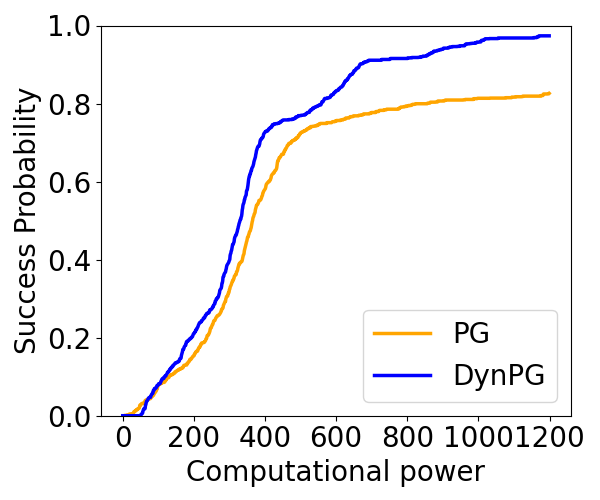
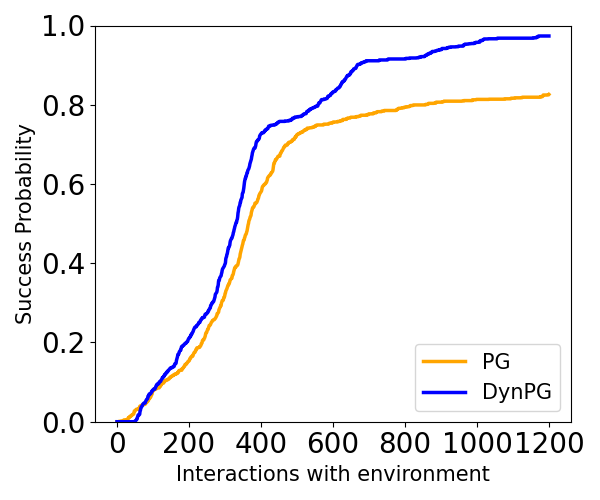
rename computational_power

diff --git a/run_algo.py b/run_algo.py
@@ -36,7 +36,7 @@ def _run_algos():
         combinations = list(itertools.product(
             config.algorithm, config.env_name, config.action_list, config.reward_list,config.discount_factor,  
             config.eps, config.pg_lr, config.dpg_lr, config.adaptive, config.dpg_Ns,
-            config.computational_power, config.gradient_clipping, config.reward_normalization, 
+            config.cmax_interactions, config.gradient_clipping, config.reward_normalization, 
             config.copy_weights, config.rounds
         ))
         
@@ -44,13 +44,13 @@ def _run_algos():
             _run_algo(*params)
 
     
-    plot_success_probs(config.computational_power[0], config.discount_factor, 
+    plot_success_probs(config.max_interactions[0], config.discount_factor, 
                         config.rounds[0], config.pg_lr, config.dpg_lr,config.adaptive,
                         config.env_name[0], config.eps[0], config.reward_list, config.dpg_Ns[0])
             
 
 def _run_algo(algorithm, env_name, action_list, reward_list, discount_factor, 
-              eps, pg_lr, dpg_lr, adaptive, dpg_Ns, computational_power,
+              eps, pg_lr, dpg_lr, adaptive, dpg_Ns, max_interactions,
               gradient_clipping, reward_normalization, copy_weights,
               rounds):
     # one can speficify seeds for reproducibility; 
@@ -81,7 +81,7 @@ def _run_algo(algorithm, env_name, action_list, reward_list, discount_factor,
                 discount_factor,
                 gradient_clipping,
                 reward_normalization,
-                computational_power,
+                max_interactions,
                 adaptive
                 )
             case "dpg":
@@ -94,7 +94,7 @@ def _run_algo(algorithm, env_name, action_list, reward_list, discount_factor,
                 gradient_clipping,
                 reward_normalization,
                 copy_weights,
-                computational_power,
+                max_interactions,
                 )
             case _:
                 raise ValueError(f"Algorithm {alg} not found")

diff --git a/dynamic_policy_gradient/utils/plot_results.py b/dynamic_policy_gradient/utils/plot_results.py
@@ -5,7 +5,7 @@ import pickle
 
 
 
-def plot_success_probs(computational_power,discount_factor, rounds,pg_lr, dpg_lr, adaptive,env_name,eps, reward_list,Ns):
+def plot_success_probs(max_interactions,discount_factor, rounds,pg_lr, dpg_lr, adaptive,env_name,eps, reward_list,Ns):
     discount_factor = discount_factor[0]
     plt.figure(figsize=(6, 5))
     total_samples_pg = []
@@ -25,21 +25,21 @@ def plot_success_probs(computational_power,discount_factor, rounds,pg_lr, dpg_lr
     
     probs_pg = []
     probs_dpg = []
-    for compute in range(computational_power):
+    for compute in range(max_interactions):
         probs_pg.append(np.sum([1 for i in total_samples_pg if i < compute]) / rounds)
         probs_dpg.append(np.sum([1 for i in total_samples_dpg if i < compute]) / rounds)
 
 
     # Plot 
     plt.plot(
-        range(computational_power),
+        range(max_interactions),
         probs_pg,
         label="PG",
         color="orange",
         linewidth=2.5,
     )
     plt.plot(
-        range(computational_power),
+        range(max_interactions),
         probs_dpg,
         label="DynPG",
         color="blue",
@@ -47,9 +47,9 @@ def plot_success_probs(computational_power,discount_factor, rounds,pg_lr, dpg_lr
     )
 
     # enlarge ticksize and label size
-    plt.xlabel("Computational power", fontsize=20)
-    plt.ylabel("Success Probability", fontsize=20)
-    plt.legend(loc="lower right", fontsize=20)
+    plt.xlabel("Interactions with environment", fontsize=15)
+    plt.ylabel("Success Probability", fontsize=15)
+    plt.legend(loc="lower right", fontsize=15)
 
     # set ticksize
     plt.xticks(fontsize=20)

diff --git a/dynamic_policy_gradient/algs/softmax_dpg.py b/dynamic_policy_gradient/algs/softmax_dpg.py
@@ -52,7 +52,7 @@ class DynamicSoftmaxPG:
         gradient_clipping,
         reward_normalization,
         copy_weights,
-        computational_power,
+        max_interactions,
     ):
         torch.manual_seed(self.seed)
 
@@ -69,7 +69,7 @@ class DynamicSoftmaxPG:
         V_gap = float("inf")
 
         # Outer training loop over horizons in DynPG 
-        while V_gap > eps and total_samples<computational_power:
+        while V_gap > eps and total_samples<max_interactions:
             if adaptive: 
                 lr_h = 2*(1-self.env.discount_factor) / (1-(self.env.discount_factor**(h+1)))
                 N_h = math.ceil(45* (1-(self.env.discount_factor**(h+1))) / (1-self.env.discount_factor)) # number of episodes for the current horizon
@@ -129,7 +129,7 @@ class DynamicSoftmaxPG:
                 episode_actual_Vs.append(actual_V)
                 sample_path.append(total_samples)
 
-                if total_samples>computational_power:
+                if total_samples>max_interactions:
                     break
                 
 

diff --git a/dynamic_policy_gradient/algs/softmax_pg.py b/dynamic_policy_gradient/algs/softmax_pg.py
@@ -32,7 +32,7 @@ class SoftmaxPG:
         discount_factor,
         gradient_clipping,
         reward_normalization,
-        computational_power,
+        max_interactions,
         adaptive
     ):  
         num_iter_per_episode= math.ceil(1 / (1 - discount_factor)) #max-iterations per run in PG
@@ -56,7 +56,7 @@ class SoftmaxPG:
         V_gap = float("inf")
 
         # Training loop of stationary policy
-        while V_gap > eps and total_samples<computational_power:
+        while V_gap > eps and total_samples<max_interactions:
             state, _ = self.env.reset()
             total_episodes += 1
 

diff --git a/config.py b/config.py
@@ -9,7 +9,7 @@ class _AlgosConfig():
     env_name: Iterable[str] = ("Sutton-extended",)
     action_list: Iterable[Iterable[int]] = ((0, 300, 3, 0, 5, 5, 0),)
     reward_list: Iterable[Iterable[Iterable[float]]] = (((0,0),(-0.75,10),(0,0),(0,0),(1.25,1.25),(1.25,1.25)),)
-    discount_factor: Iterable[float] = (0.9,)
+    discount_factor: Iterable[float] = (0.99,)
     
     eps: Iterable[float] = (0.01,) # accuracy
 
